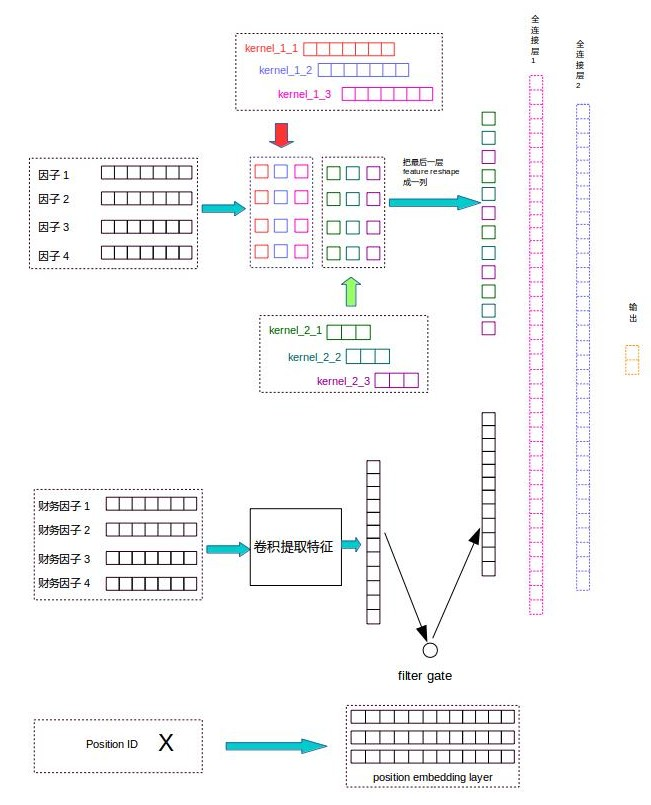
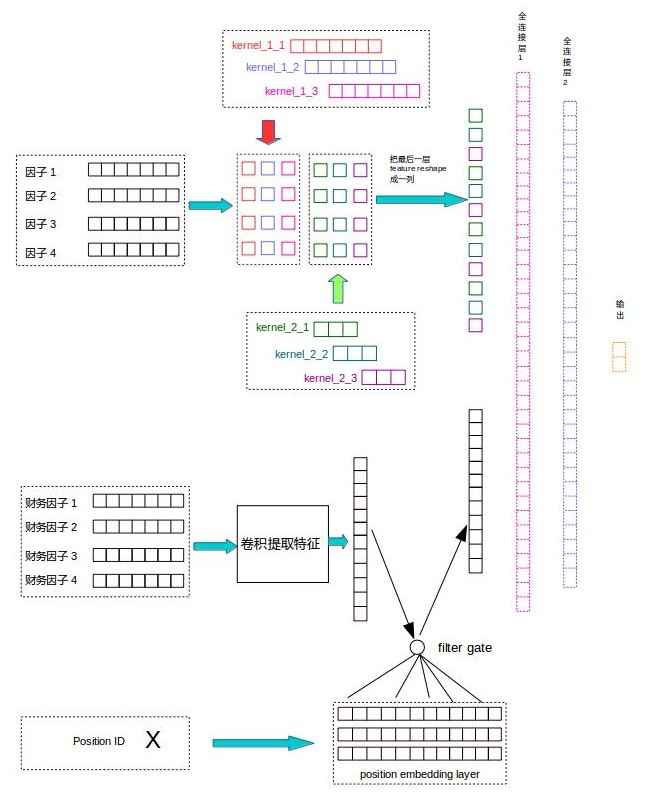
add pictures

diff --git a/README.md b/README.md
@@ -4,6 +4,10 @@
 * 第二阶段整理影响股票超额收益率的因子（特征），完成了基于CNN的多因子量化选股模型（本阶段选用的因子仅为基于价格计算的因子）
 * 第三阶段改进上一阶段的模型结构，将财务因子数据与价格因子数据融合起来，一起对股票超额收益率进行预测．
 
+先放一张模型结构图：
+
+![](./figures/模型结构 3.jpg)
+
 ## 实践过程总结
 
 整个项目基于的假设和套利定价理论基于的假设是一样，项目实施的理论依据也是套利定价理论．
@@ -70,7 +74,7 @@
 
     回归法：
 
-    	对因子暴露（即标准化后的因子）和股票预期收益率在历史时间序列上进行回归，估计参数即因子收益率。利用估计的因子收益率和当前时期计算的因子暴露进行线性组合，对个股进行打分。组合筛选也是选取分数较高的前N个。
+   	对因子暴露（即标准化后的因子）和股票预期收益率在历史时间序列上进行回归，估计参数即因子收益率。利用估计的因子收益率和当前时期计算的因子暴露进行线性组合，对个股进行打分。组合筛选也是选取分数较高的前N个。
 
 
 3. **构建风险模型**
